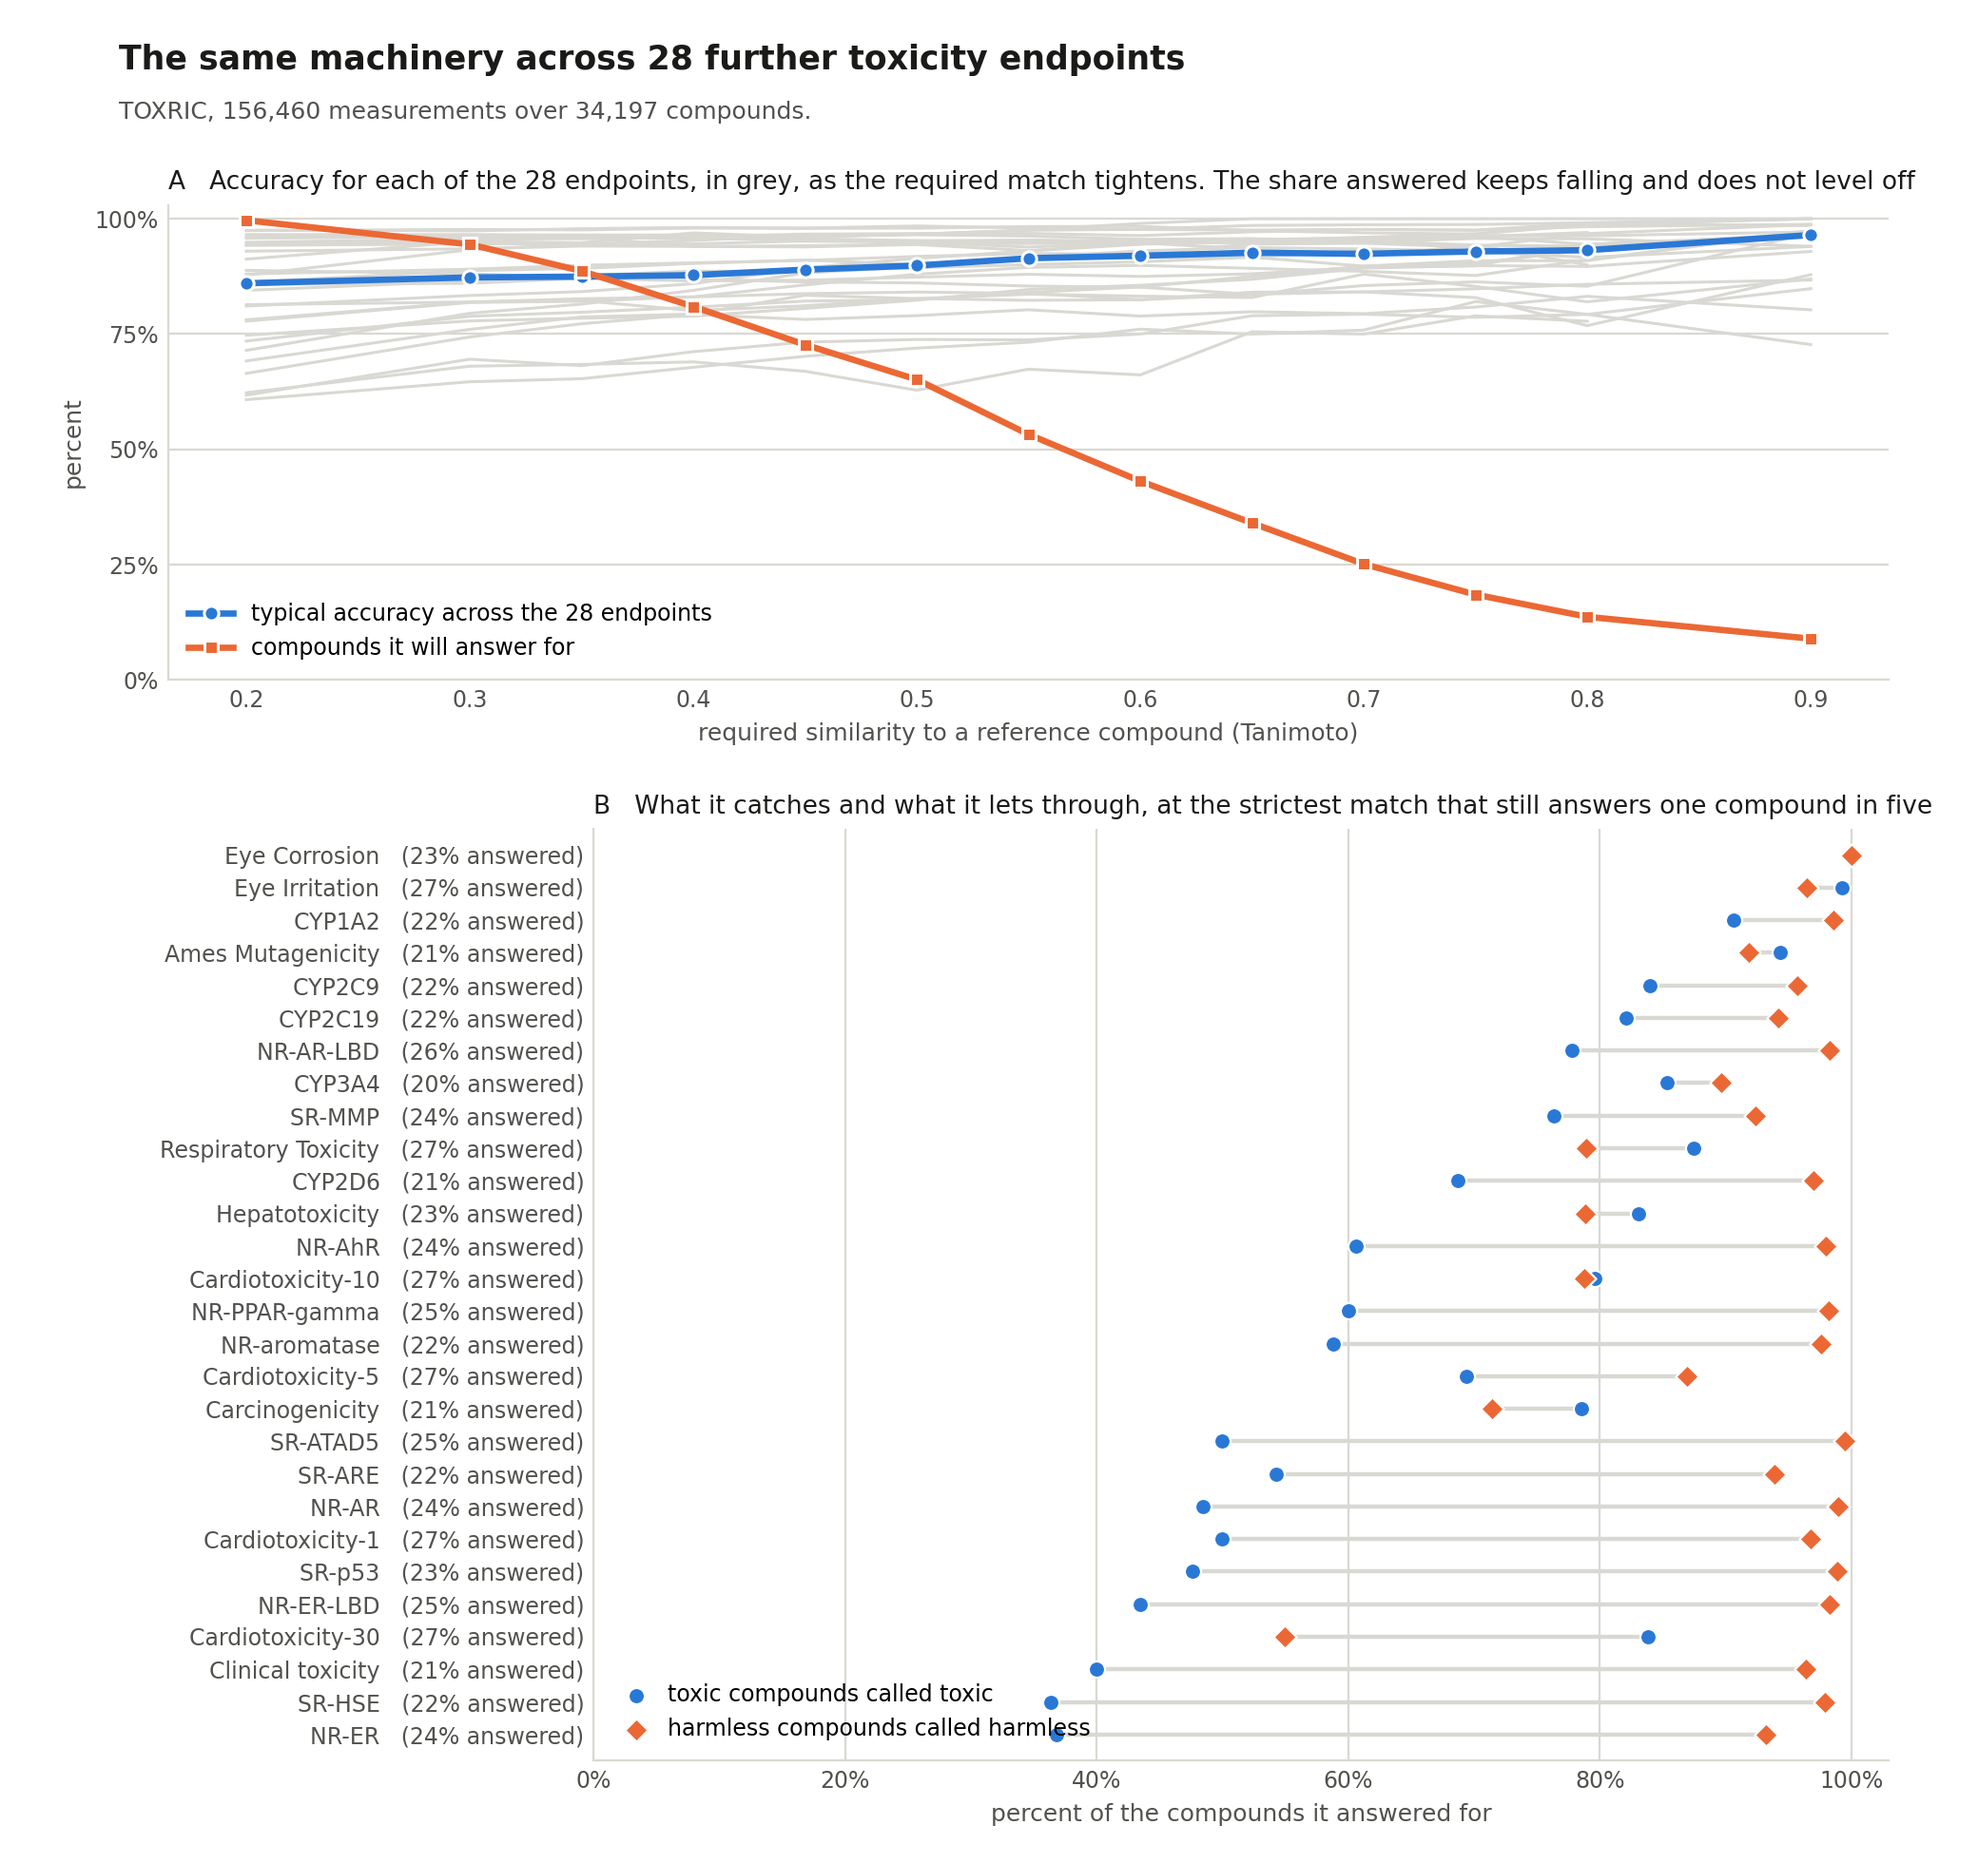
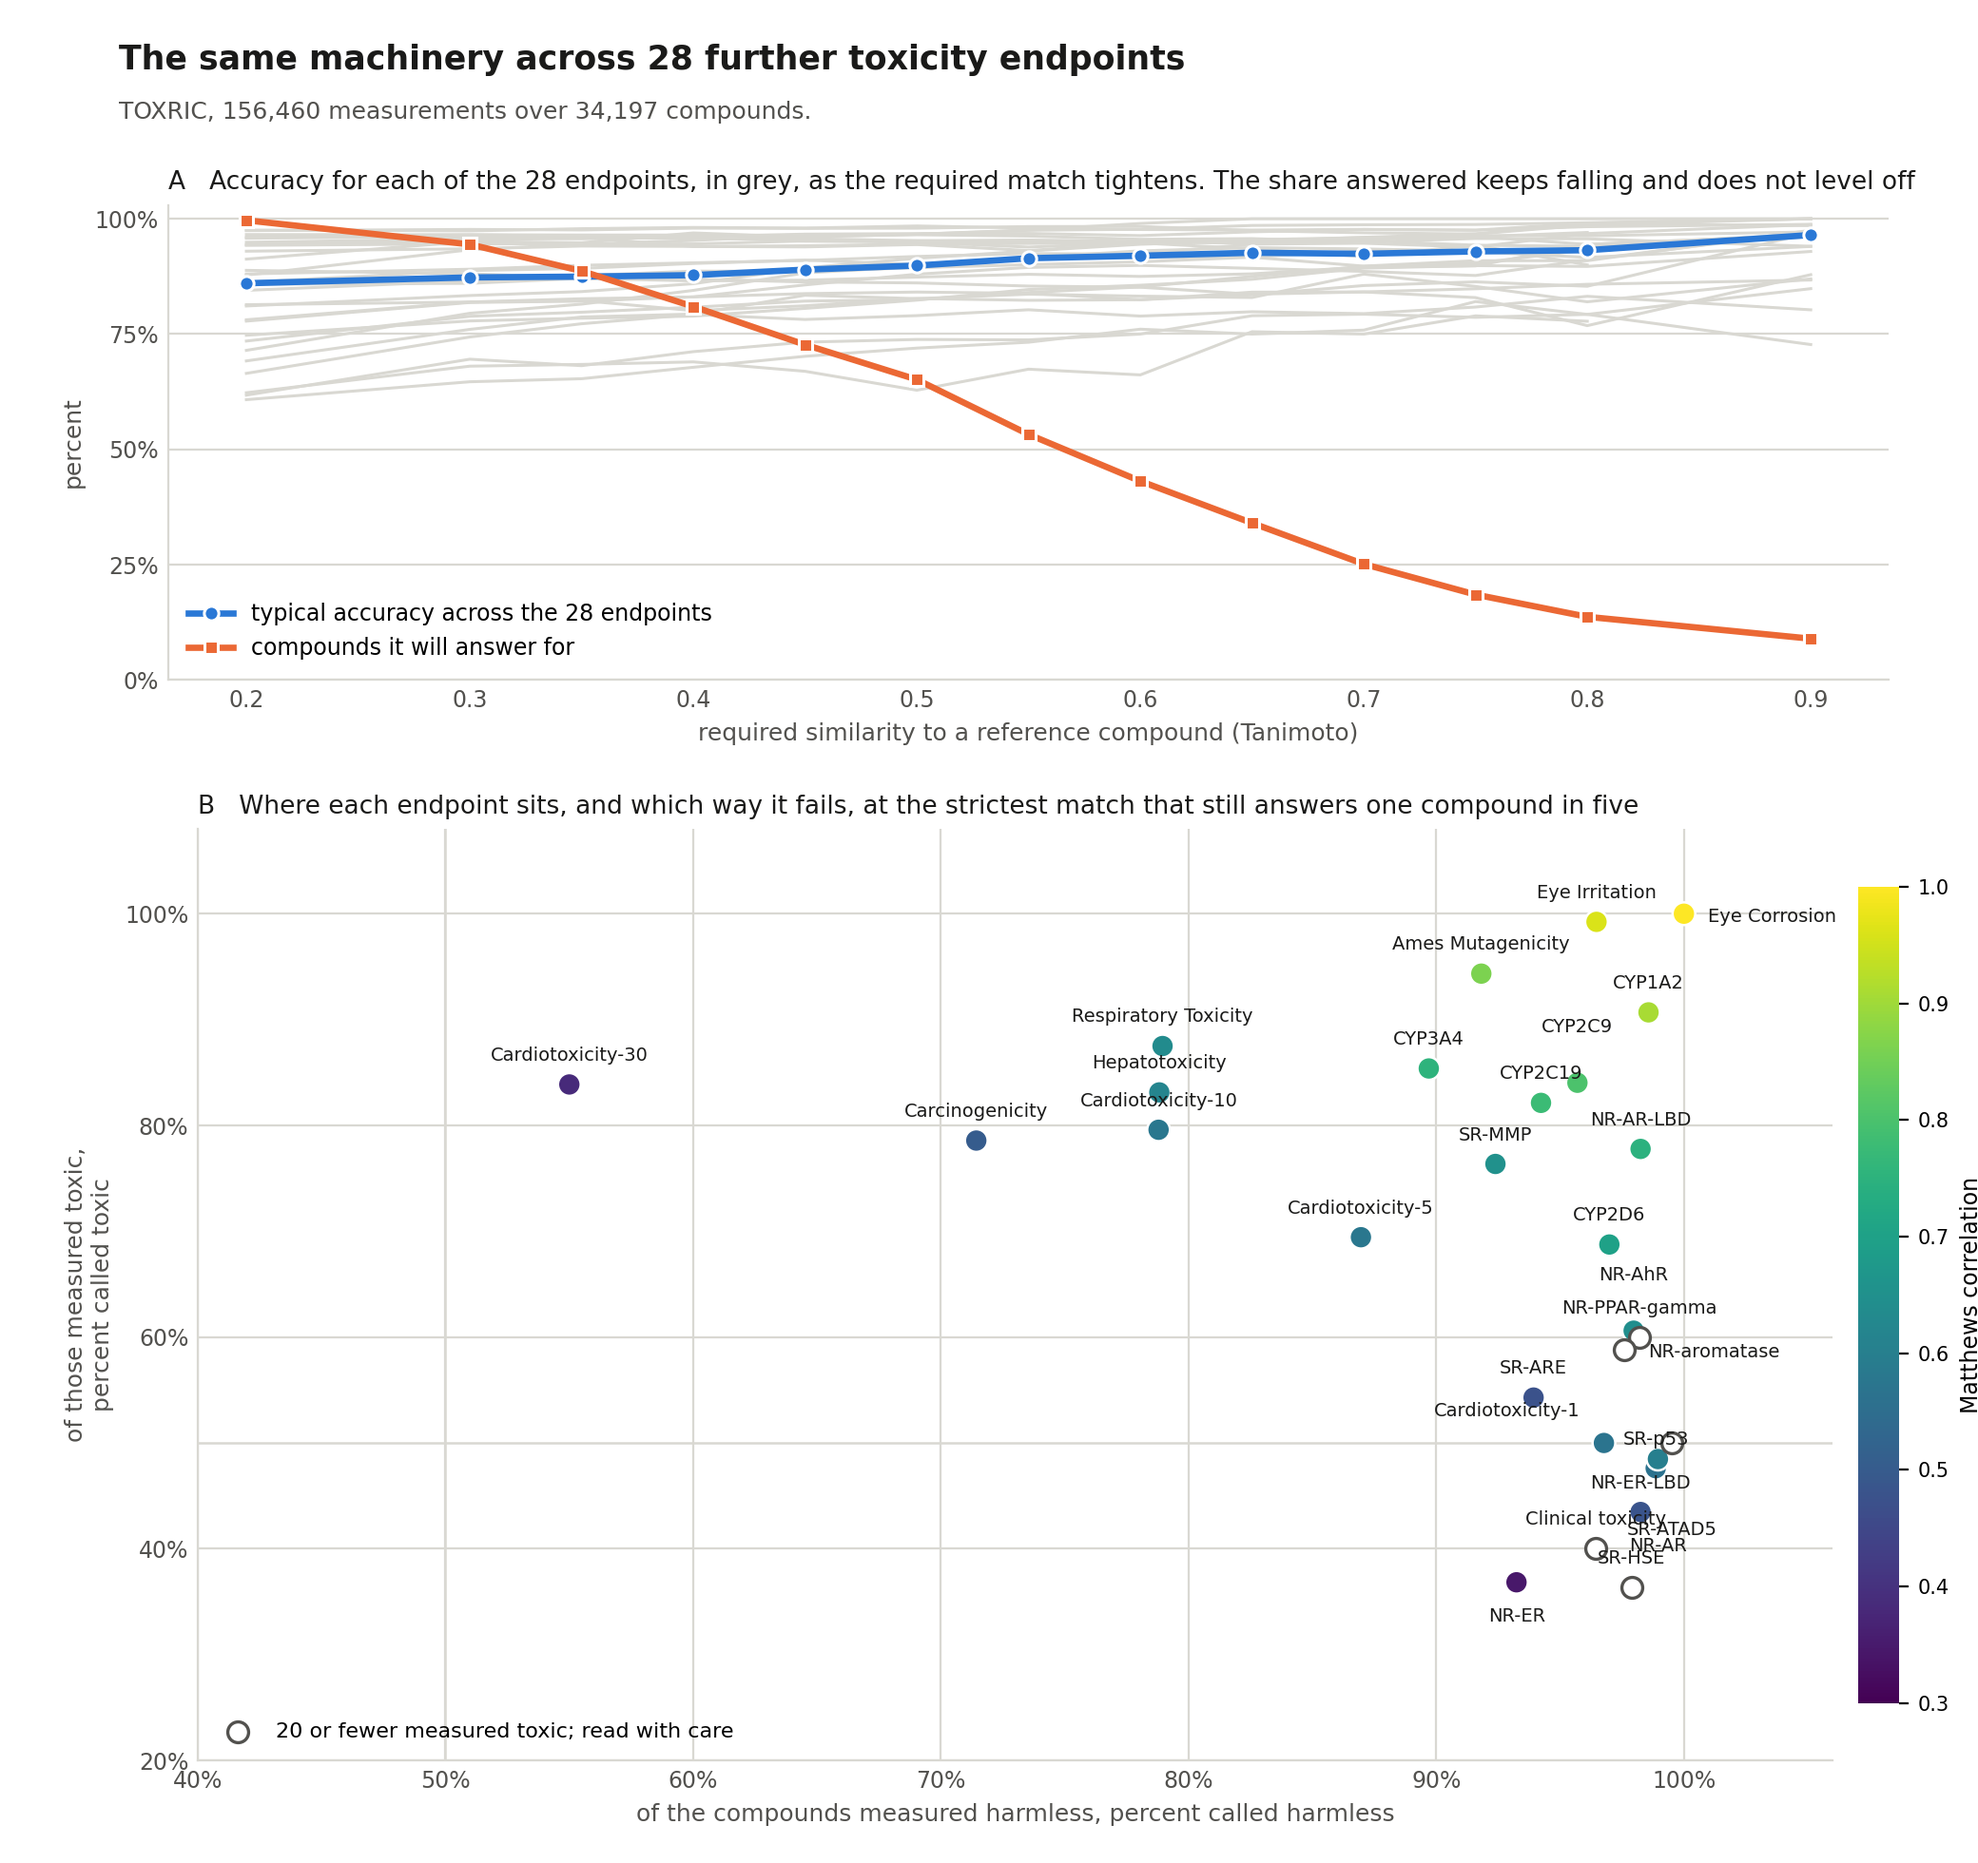
Place each endpoint by what it catches against what it passes
The dumbbell drew a line between two independent rates, which reads as a range.
Panel B now places each endpoint by the share of measured harmless compounds it
passes against the share of measured toxic compounds it catches, colored by
Matthews correlation, so position says which way an endpoint fails: lower right
is conservative, missing actives while raising few false alarms, and upper left
is the reverse.

Matthews correlation is added because it uses all four cells of the table, so no
answering strategy inflates it, and its zero means no relationship rather than a
rate that matches how the labels were reported. It also corrects a distortion the
mean of the two rates carried: NR-PPAR-gamma ranked thirteenth by that mean and
twenty fourth by Matthews correlation, propped up by a pass rate that is nearly
free when 5 of 392 compounds are active.

Endpoints with 20 or fewer measured toxic compounds are drawn open and left
unranked. Clinical toxicity rests on five.

diff --git a/README.md b/README.md
@@ -99,23 +99,25 @@ gains are mostly spent by a required similarity of about 0.6; the share of
 compounds answered for keeps falling to 8.6% at 0.90 and never levels off, so
 the axis runs to zero rather than cutting that curve off.
 
-**Panel B** gives two rates per endpoint at the strictest match that still
-answers one compound in five: of the compounds measured toxic, the share called
-toxic, and of those measured harmless, the share called harmless. Endpoints are
-ordered by the mean of the two.
+**Panel B** places each endpoint by what it lets through against what it catches,
+at the strictest match that still answers one compound in five, colored by
+Matthews correlation. Position tells you which way an endpoint fails. The lower
+right is a conservative call, missing actives while raising few false alarms;
+the upper left is the reverse. Open circles carry 20 or fewer measured toxic
+compounds and are too thin to rank.
 
-Those two rates are reported instead of a single percent correct on purpose.
-These labels are lopsided, 87 to 13 on CYP2D6, and that ratio reflects which
-compounds were tested and reported rather than anything about chemistry. A
-percent correct computed on such data mostly records the lopsidedness, and a
-method that answered the same way every time would score well on it. The catch
-and pass rates do not move with the ratio, so they say what the method does.
+Percent correct is not reported, and no majority-class comparison is drawn. These
+labels are lopsided, 87 to 13 on CYP2D6, and that ratio records which compounds
+someone chose to test and publish rather than anything about chemistry. Matthews
+correlation uses all four cells of the table, so no answering strategy inflates
+it, and its zero means no relationship rather than a rate that happens to match
+the reporting.
 
-Read together they show where it is weak and in which direction. On the estrogen
-receptor assay it calls 36.8% of measured actives active while correctly passing
-93.2% of inactives: conservative, missing actives rather than raising false
-alarms. Cardiotoxicity at 30 micromolar runs the other way, 83.9% of actives
-caught and 55.0% of inactives passed.
+Read it for where the tool earns its place. Eye corrosion and CYP1A2 sit in the
+top right at 1.000 and 0.909. The estrogen receptor assay sits low and right at
+0.346: it calls 36.8% of measured actives active while passing 93.2% of
+inactives, which is conservative rather than wrong, and worth knowing before you
+rely on it.
 
 ---
 
